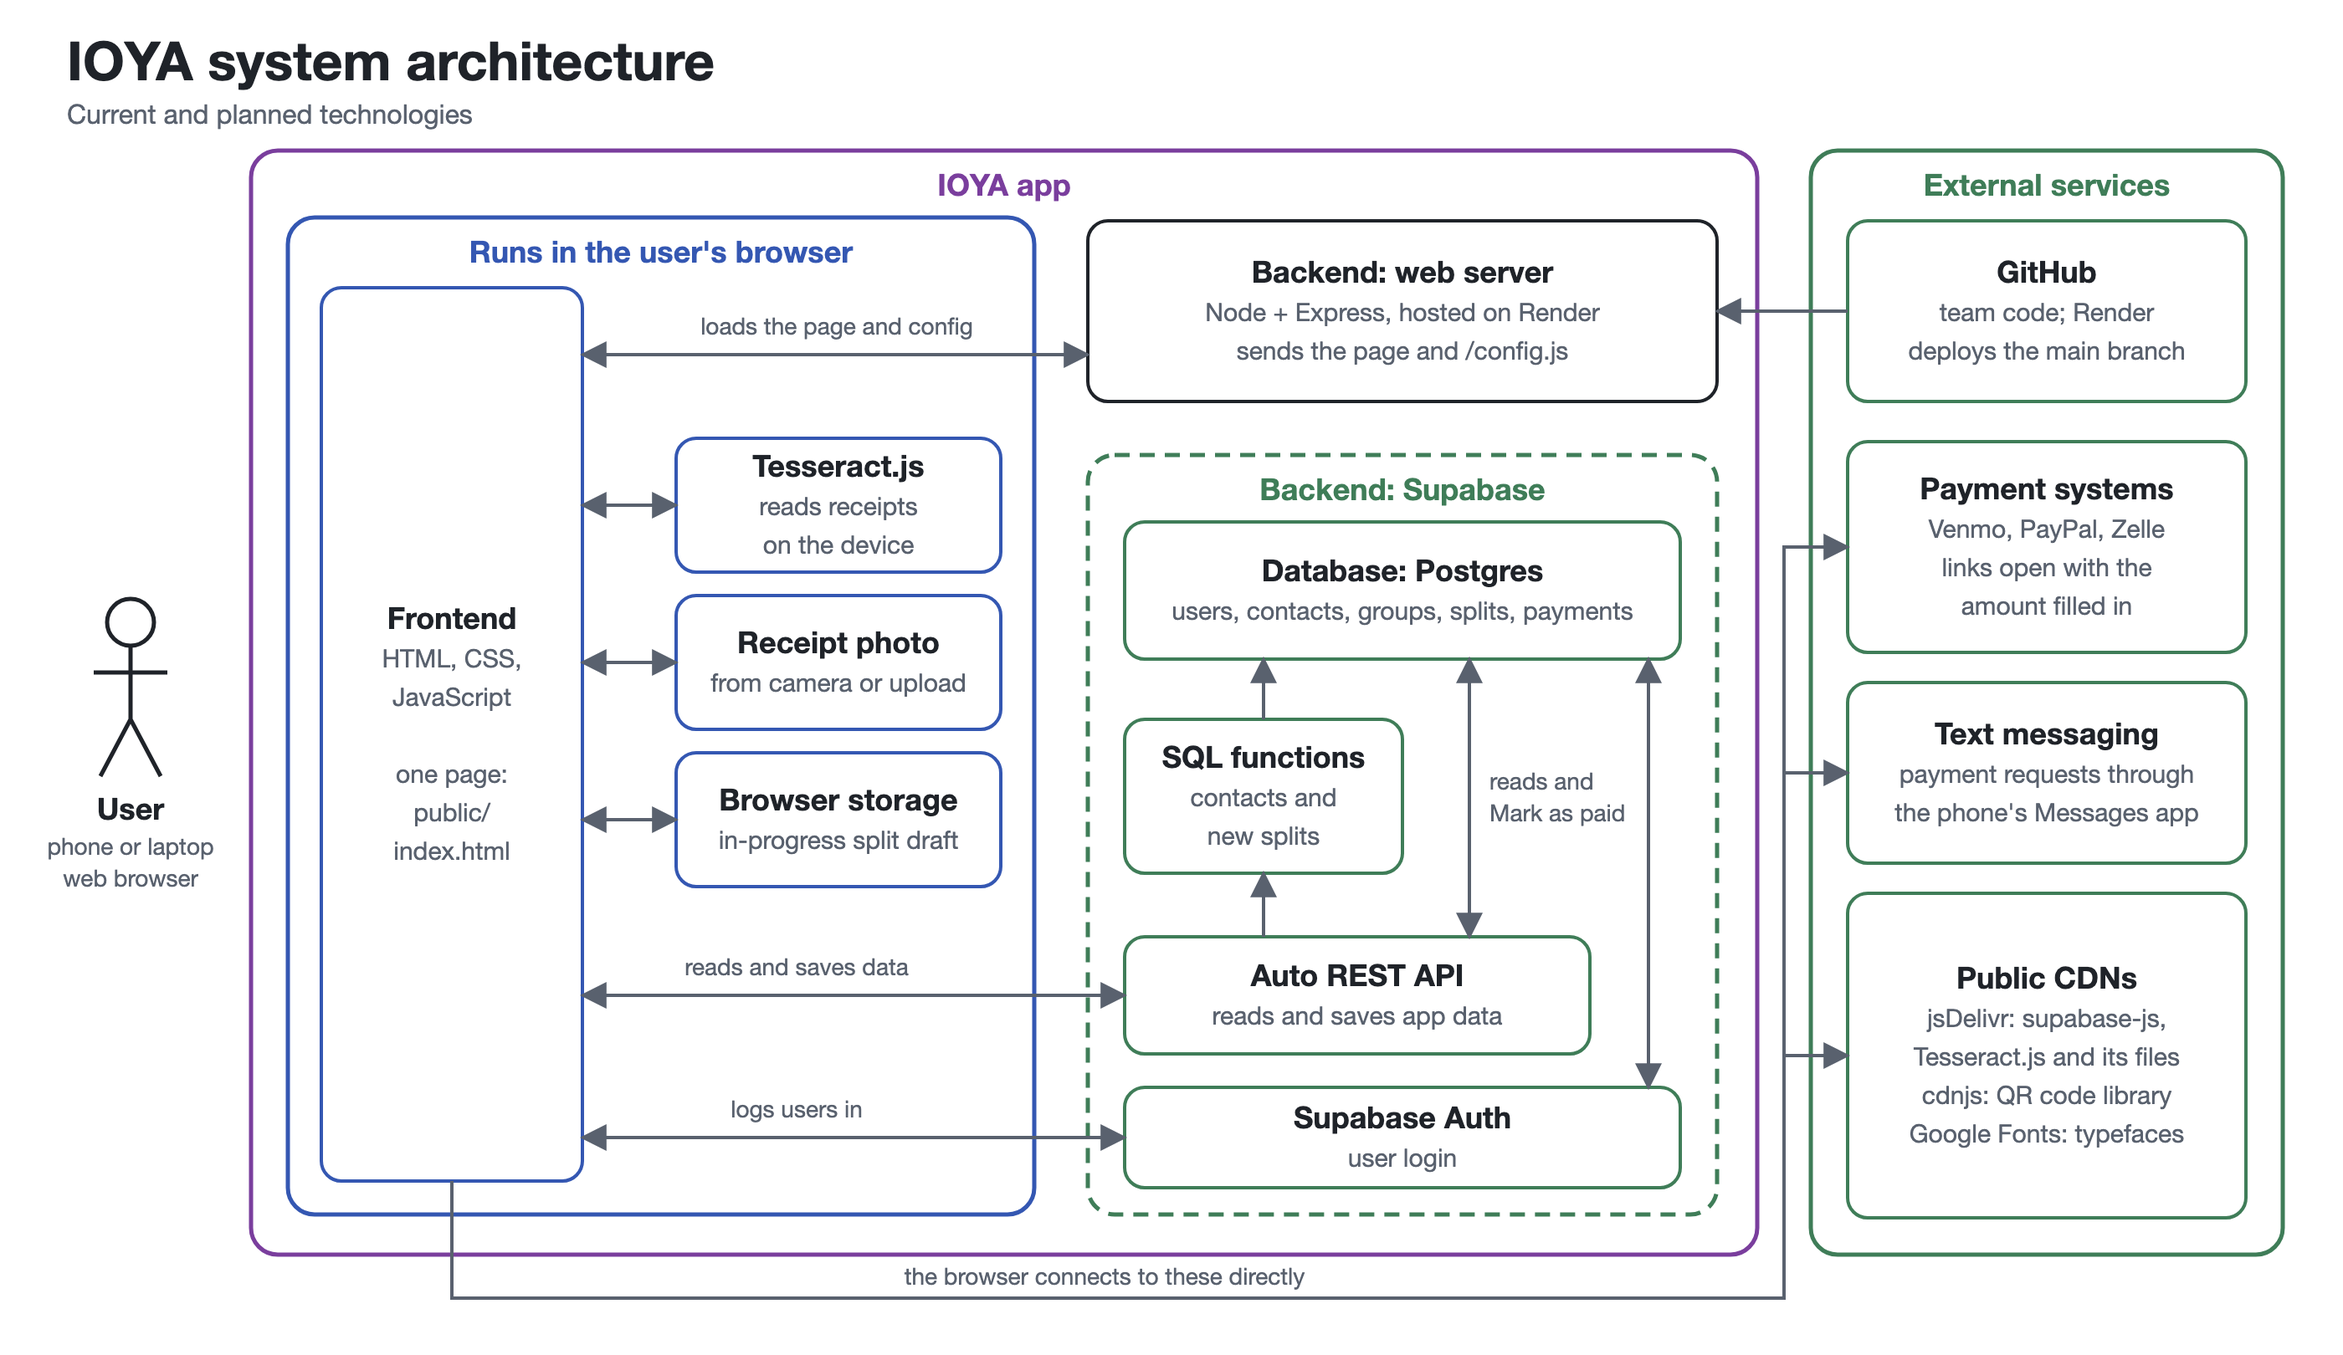
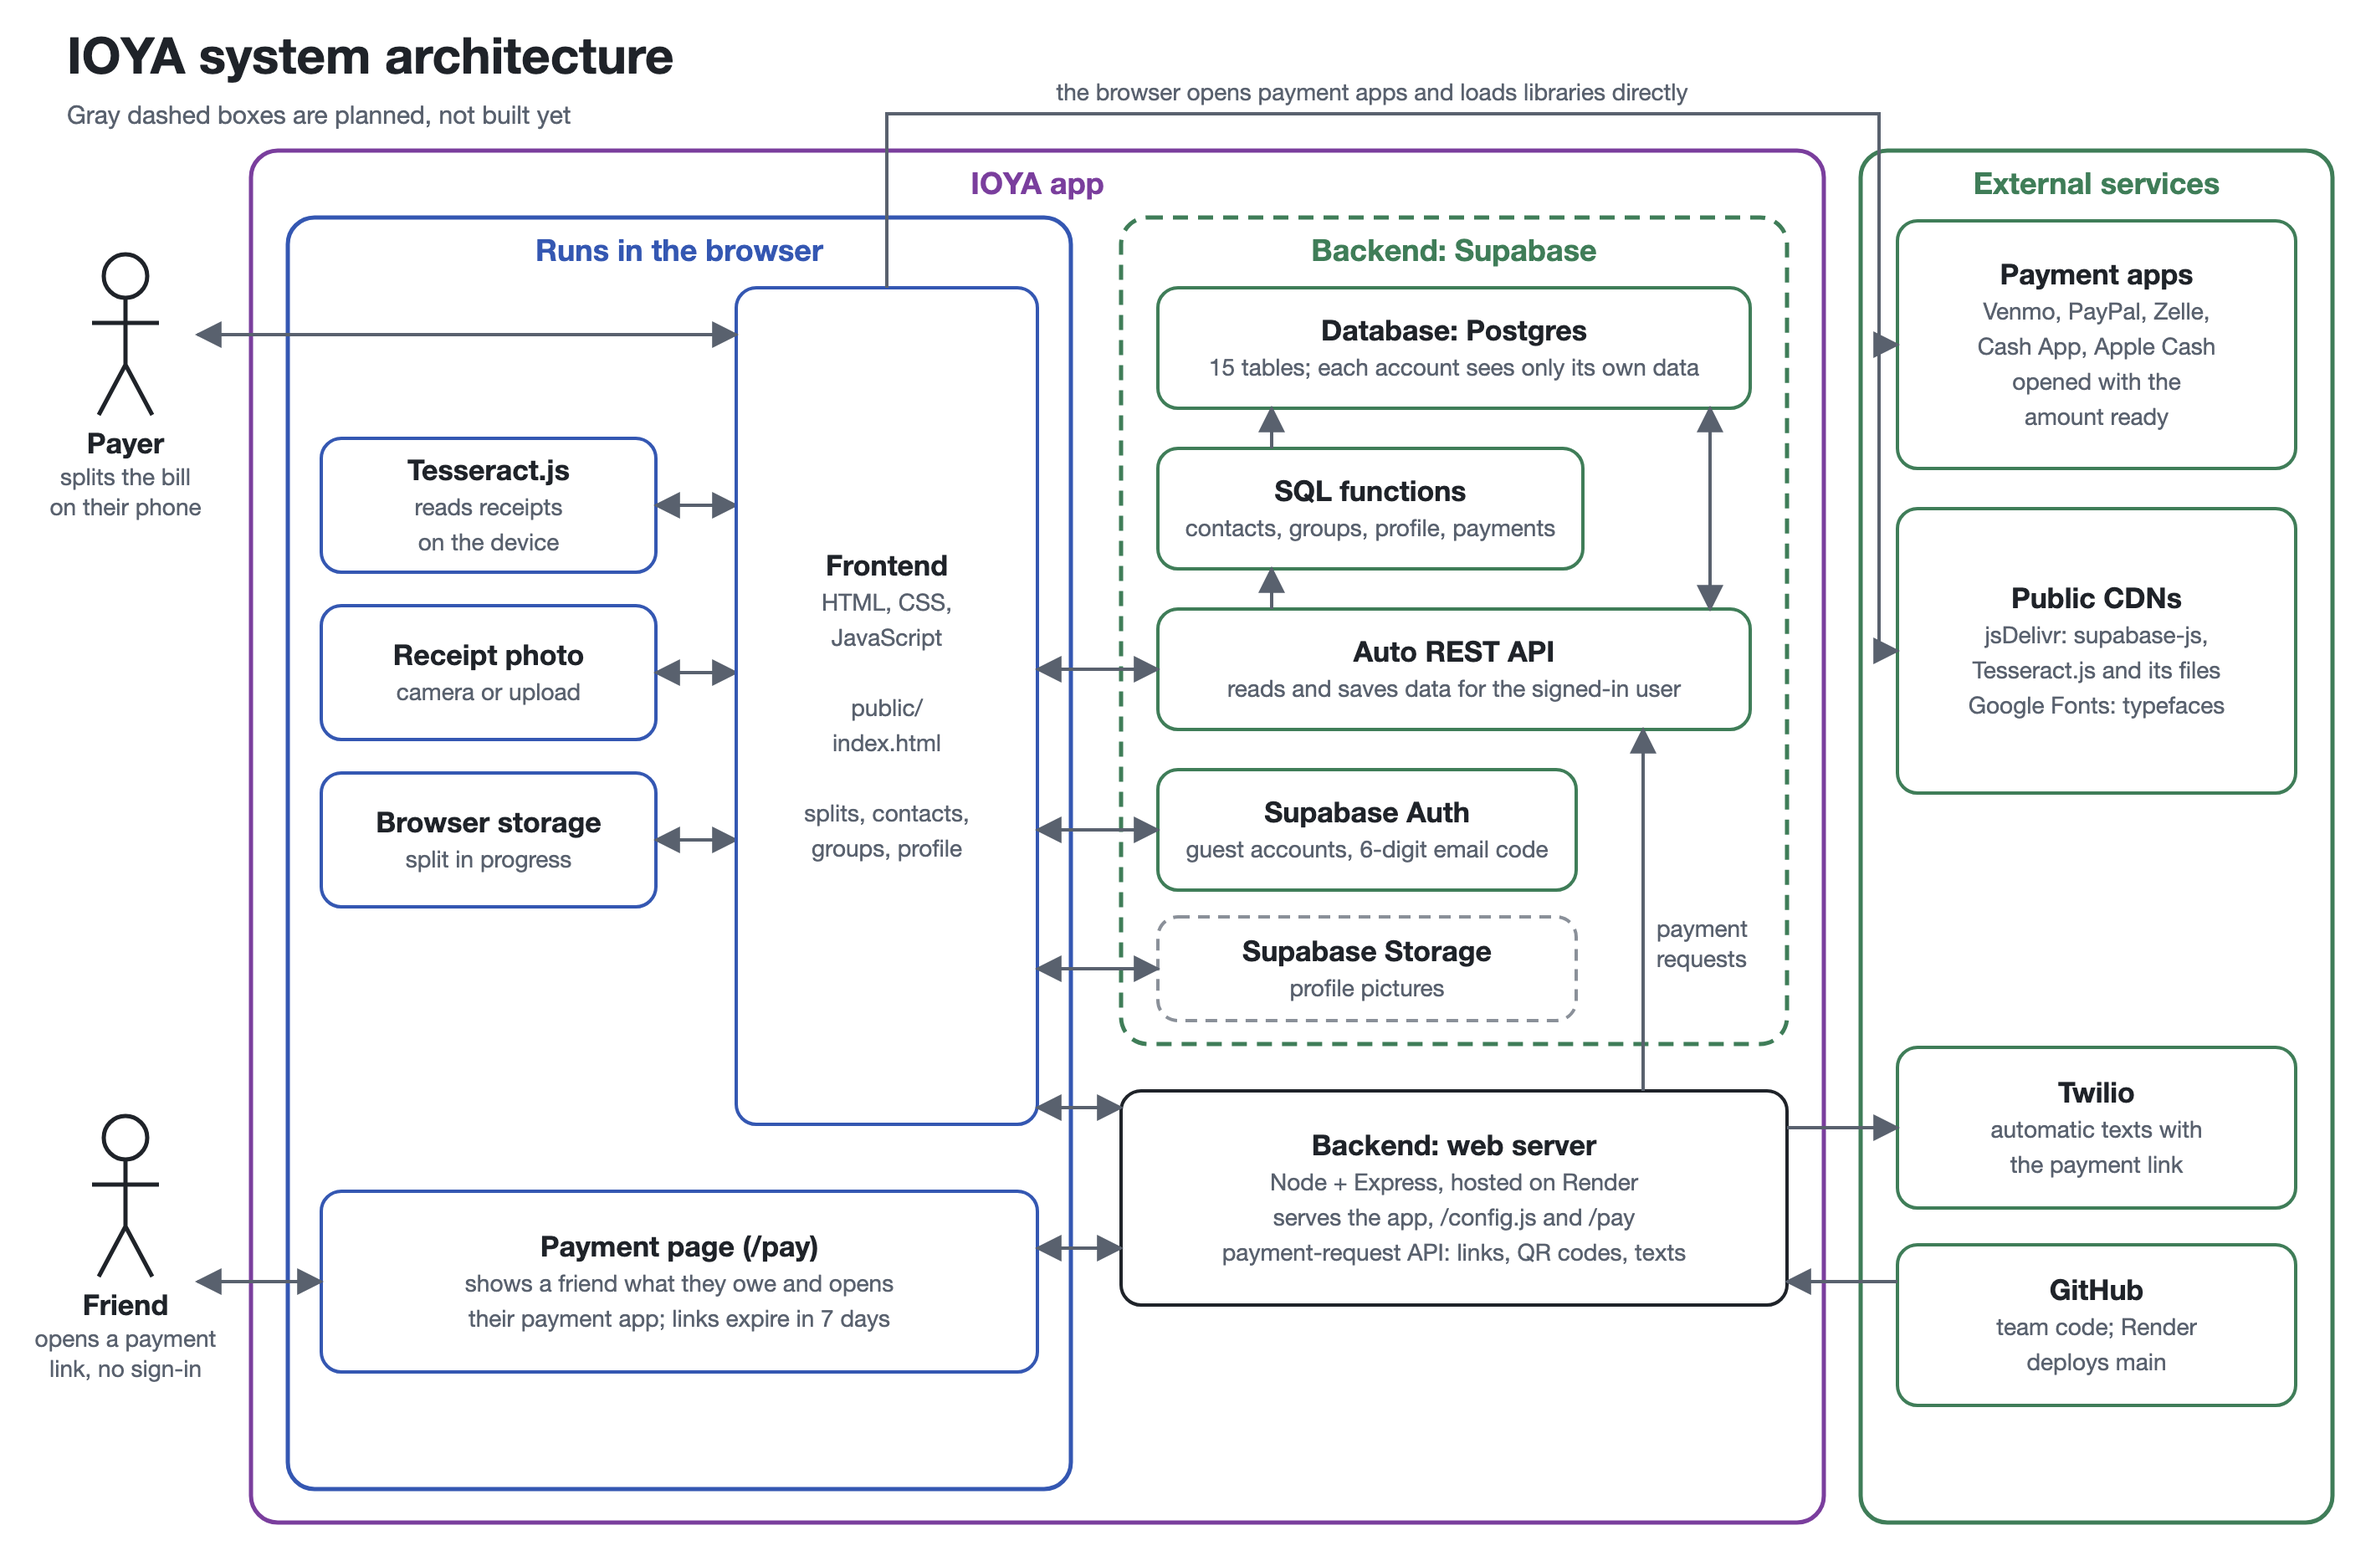
Update the system architecture diagram for accounts, payment links and texts

diff --git a/README.md b/README.md
@@ -41,7 +41,7 @@ The original diagram is also in [`docs/ioya-erd.pdf`](docs/ioya-erd.pdf).
 
 ![IOYA system architecture](docs/ioya-architecture.png)
 
-This diagram shows the technologies we use now and the ones we plan to use. Payment links, text requests, saving new splits and email sign-in are planned, not built yet. Each browser already gets its own guest account.
+This diagram shows how IOYA is built today. Gray dashed boxes are planned and not built yet (profile pictures in Supabase Storage). New splits are still kept only in the browser; saving them to the database is also planned. Automatic texts work only when the Twilio settings are added on the server.
 
 ## Tech Stack
 
